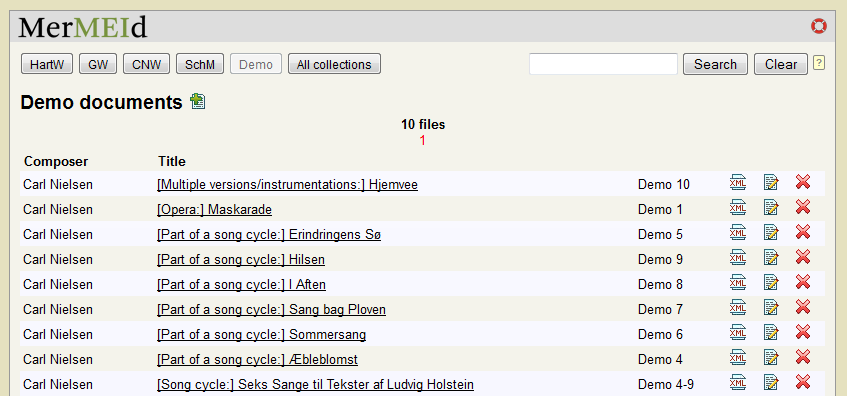
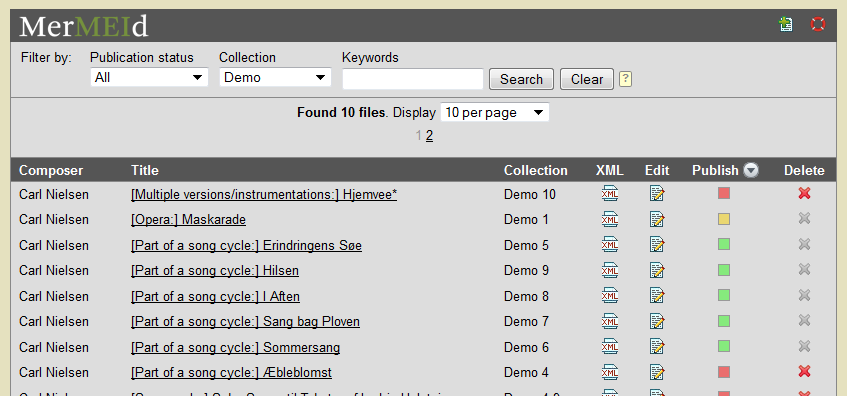
updated the manual (publishing added)
git-svn-id: svn+ssh://code-01.kb.dk/home/svn/repos/xml-store-v2@547 3c7ca1a1-f336-440e-b0c8-27b7de15a481

diff --git a/trunk/mermeid/manual/basics.html b/trunk/mermeid/manual/basics.html
@@ -1,169 +1,184 @@
 <!DOCTYPE HTML PUBLIC "-//W3C//DTD HTML 4.01 Transitional//EN">
-<html xmlns="http://www.w3.org/1999/xhtml"><head>
-<meta http-equiv="content-type" content="text/html; charset=iso-8859-1"><title>MerMEId manual</title>
-
-<link href="../style/tab_style.css" rel="stylesheet" type="text/css">
-<link href="../style/list_style.css" rel="stylesheet" type="text/css">
-<link href="../style/front_page.css" rel="stylesheet" type="text/css">
-<link href="../style/manual.css" rel="stylesheet" type="text/css">
-</head>
-
+<html xmlns="http://www.w3.org/1999/xhtml">
+  <head>
+    <meta http-equiv="content-type" content="text/html; charset=iso-8859-1"/><title>MerMEId manual</title>
+    
+    <link href="../style/tab_style.css" rel="stylesheet" type="text/css"/>
+    <link href="../style/list_style.css" rel="stylesheet" type="text/css"/>
+    <link href="../style/front_page.css" rel="stylesheet" type="text/css"/>
+    <link href="../style/manual.css" rel="stylesheet" type="text/css"/>
+  </head>
+  
   <body>
-<div class="main">
-<div class="manual_header">
-<div class="close_div"> <a href="javascript:window.close();" class="trigger"><img alt="Close" title="Close" src="../images/close.gif" height="12" width="12"></a></div>
-  <img alt="MerMEId" src="../images/mermeid_30px_inv.png" height="23" width="130"> </div>
-<div class="toclink"><a href="index.html">Back
-to table of contents</a></div>
-<h2><a name="basics" id="basics">MerMEId
-basics</a></h2>
-<p>MerMEId (Metadata Editor and Repository for MEI data) is a
-tool for editing, (pre-)viewing and handling of music metadata based on
-<a href="http://www.music-encoding.org" target="_blank" title="Music Encoding Initiative">MEI</a>. </p>
-<p>It consists of three main components: the MEI file browser,
-the metadata editing tool, and the HTML preview. </p>
-<h3><a name="File" id="File">File list</a></h3>
-<p>The usual way to start working with MerMEId would be to open
-the file list, usually located at http://[your hostname
-here]/storage/list_files.xq (<a href="/storage/list_files.xq" target="_blank">here</a>). You should then see a list
-of existing files in your collection (if any):</p>
-<p><img alt="" src="../images/manual/list_files.png" class="illustration" border="0"></p>
-<div> <map name="map" id="map" class="manual"><area shape="rect" coords="10,57,303,91" alt="Collection buttons" title="Collection buttons" href="javascript:void(0);" id="collButtons"><area shape="rect" coords="163,166 807,207" alt="result pages" title="Result pages" href="javascript:void(0);"><area shape="rect" coords="164,229 429,403" alt="Click any title in the list to see the HTML preview (opens in a new browser tab)" title="Click any title in the list to see the HTML preview (opens in a new browser tab)" href="javascript:void(0);"><area shape="rect" coords="818,229 842,406" alt="View XML source" title="View XML source" href="javascript:void(0);"><area shape="rect" coords="860,229 882,406" alt="Open the file in the editor" title="Open the file in the editor" href="javascript:void(0);"><area shape="rect" coords="907,229 927,406" alt="Delete the file" title="Delete the file" href="javascript:void(0);"><area shape="rect" coords="642,44 943,84" alt="Limit number of results by entering search keywords" title="Limit number of results by entering search keywords" href="javascript:void(0);"><area shape="rect" coords="10,94 126,130" alt="Create a new file and open it in the editor" title="Create a new file and open it in the editor" href="javascript:void(0);"></map>
-</div>
-<p>Collection buttons (in this example, "HartW", "CNW", "SchM",
-"GW", and "Demo") will be visible only if you have spefcified such
-collections in your files. Clicking them will reduce the list to show
-only files belonging to that collection.</p>
-<p>You may also limit the number of files displayed using the
-"Search" field in the upper right corner. Navigate through the result
-pages using the page numbers or the "Previous page" / "Next page" links.</p>
-<p>From the list, you have the following options:</p>
-<ul>
-<li><strong>Add new file</strong>: Clicking the add
-new file button <img alt="New file" src="../images/new.gif" height="16" width="16"> will open a new file in the
-metadata editor</li>
-<li><strong>HTML preview</strong>:<strong></strong>
-Click the title of any file to see its metadata displayed as formatted
-HTML.</li>
-<li><strong>XML source</strong>: Click the XML view
-icon <img alt="XML" src="../images/xml.gif" height="16" width="16"> to see file's the plain XML
-data</li>
-<li><strong>Edit file</strong>: Click the edit icon
-<img alt="Edit" src="../images/edit.gif" height="16" width="16"> to open the file in the
-metadata editor</li>
-<li><strong>Delete file</strong>: Clicking the
-delete icon <img alt="Delete" src="../images/delete.gif" height="16" width="16"> will display a warning that
-you are about to delete the selected file. Click "OK" to delete,
-otherwise "Cancel". </li>
-</ul>
-<h3><a name="editor" id="editor">The editor &#8211;
-general functionality and navigation</a></h3>
-<p>The editor (i.e. the forms for editing your data) is divided
-into a number of separate forms. You navigate through the main parts of
-it by clicking the tabs at the top of the page:</p>
-<p><img alt="Tabs" src="../images/manual/tabs.png"></p>
-<ul class="important">
-<li>Make sure to save any changes you have made before
-switching tabs.&nbsp;A warning occurs if you are about to change
-tab without having saved changes.</li>
-</ul>
-<p>Some general functions are found in the upper right corner of
-the form:</p>
-<table border="0">
-<col> <col> <tbody>
-<tr>
-<td><img alt="Save" src="../images/save.gif" height="16" width="16"></td>
-<td>Save file</td>
-</tr>
-<tr>
-<td><img alt="HTML" src="../images/html.gif" height="16" width="16"></td>
-<td>HTML preview</td>
-</tr>
-<tr>
-<td><img alt="XML" src="../images/xml.gif"></td>
-<td>XML source view</td>
-</tr>
-<tr>
-<td><img alt="Home" src="../images/home.gif" height="16" width="16"></td>
-<td>Close the editor end return to file list</td>
-</tr>
-<tr>
-<td><img alt="Settings" src="../images/settings.png" height="16" width="16"></td>
-<td>Settings</td>
-</tr>
-<tr>
-<td><img alt="Help" src="../images/help.png" height="16" width="16"></td>
-<td>Open this manual</td>
-</tr>
-</tbody>
-</table>
-<p>Next to repeatable fields you will find a number of icons for
-adding, deleting and re-arranging items:</p>
-<table border="0">
-<col> <col> <tbody>
-<tr>
-<td><img alt="Up" src="../images/arrow_up.gif" height="12" width="12"></td>
-<td>Move up (change order of items)</td>
-</tr>
-<tr>
-<td><img alt="Down" src="../images/arrow_down.gif" height="12" width="12"></td>
-<td>Move down</td>
-</tr>
-<tr>
-<td><img alt="Copy" src="../images/copy.gif" height="12" width="12"></td>
-<td>Duplicate item (adds a copy of the current item)</td>
-</tr>
-<tr>
-<td><img alt="Add" src="../images/add.gif" height="12" width="12"></td>
-<td>Add new item below the current one</td>
-</tr>
-<tr>
-<td><img alt="Delete" src="../images/remove.gif" height="12" width="12"></td>
-<td>Delete</td>
-</tr>
-<tr>
-<td><img alt="Right arrow" src="../images/arrow_right.png" height="12" width="12">
-</td>
-<td>Shift this item to the right, making it a sub-component
-(child) of the item above (applies to music components only) </td>
-</tr>
-<tr>
-<td><img alt="Left arrow" src="../images/arrow_left.png" height="12" width="12">
-</td>
-<td>Shift this item to the left, i.e. up one level (applies
-to music components only) </td>
-</tr>
-<tr>
-<td><img style="width: 16px; height: 16px;" alt="Edit" src="../images/edit.gif">
-</td>
-<td>Edit this item&nbsp;(opens a details editor) </td>
-</tr>
-<tr>
-<td><img style="width: 15px; height: 15px;" alt="Go to link" src="../images/go_to_link.png">
-</td>
-<td>Go to a linked resource (implies closing the current file and opening a different one for editing) </td>
-</tr>
-</tbody>
-</table>
-<h3><a name="HTML" id="HTML">HTML Preview</a></h3>
-<p>The purpose of the HTML preview is to give you an overview of
-the data you have entered. Your project may or may not use it as a
-basis for public display of your data as well, but probably this is not
-how your data will be displayed in the end. </p>
-<p><img alt="HTML preview" src="../images/manual/html_view.png" class="illustration"></p>
-<p>If titles or other texts are given in more than one language,
-all other alternatives than the first one are shown in grey with an
-abbreviated indication of the language at the beginning. To hide these
-alternative language texts, click the "Hide alternative languages" link
-in the upper right corner.</p>
-<p>By default, only the headings of the main sections are shown.
-To view the contents, click the the expand icon <img alt="expand" src="../images/plus.png" height="10" width="10">
-or the heading. To hide the contents, click the heading again. The
-number of headings shown depends on which sections have any content.</p>
-<p>At the bottom of the page, in grey, metadata about the file
-are displayed (i.e. the colophon).</p>
-</div>
-<p class="footer"><a href="http://www.kb.dk/dcm" title="DCM"><img style="border: 0px none ; vertical-align: middle;" alt="DCM Logo" src="../images/dcm_logo_small.png"></a>
-2013 Danish Centre for Music Publication | The Royal Library,
-Copenhagen | <a name="www.kb.dk" id="www.kb.dk" href="http://www.kb.dk/dcm">www.kb.dk/dcm</a></p>
-</body></html>
+    <div class="main">
+      <div class="manual_header">
+        <div class="close_div"> <a href="javascript:window.close();" class="trigger"><img alt="Close" title="Close" src="../images/close.gif" height="12" width="12"/></a></div>
+        <img alt="MerMEId" src="../images/mermeid_30px_inv.png" height="23" width="130"/> </div>
+      <div class="toclink"><a href="index.html">Back
+        to table of contents</a></div>
+      <h2><a name="basics" id="basics">MerMEId
+        basics</a></h2>
+      <p>MerMEId (Metadata Editor and Repository for MEI data) is a
+        tool for editing, (pre-)viewing and handling of music metadata based on
+        <a href="http://www.music-encoding.org" target="_blank" title="Music Encoding Initiative">MEI</a>. </p>
+      <p>It consists of three main components: the MEI file browser,
+        the metadata editing tool, and the HTML preview. </p>
+      <h3><a name="File" id="File">File list</a></h3>
+      <p>The usual way to start working with MerMEId would be to open
+        the file list, usually located at http://[your hostname
+        here]/storage/list_files.xq (<a href="/storage/list_files.xq" target="_blank">here</a>). You should then see a list
+        of existing files in your collection (if any):</p>
+      <p><img alt="" src="../images/manual/list_files.png" class="illustration" border="0"/></p>
+      <p><strong>Creating a new file: </strong>To create a new file, click the add
+        button <img alt="New file" src="../images/new.gif" height="16" width="16"/> located in the upper right corner.  
+        This will open a new file in the metadata editor.</p>
+      <p><strong>Listing existing files: </strong>Near the top of the files list page, 
+        a number of controls allow you to you choose which files to list.
+        Use the first select box if you want to see only unpublished files. 
+        The second select box lets you filter files by collection, 
+        provided you have specified file collection information in your files. 
+        You may also narrow the results using the keywords search.</p> 
+      <p>Navigate through the result
+        pages using the page numbers or the "Previous page" / "Next page" links.</p>
+      <p>From the list, you have the following options:</p>
+      <ul>
+        <li><strong>HTML preview</strong>:<strong></strong>
+          Click the title of any file to see its metadata displayed as formatted
+          HTML.</li>
+        <li><strong>XML source</strong>: Click the XML view
+          icon <img alt="XML" src="../images/xml.gif" height="16" width="16"/> to see file's the plain XML
+          data</li>
+        <li><strong>Edit file</strong>: Click the edit icon
+          <img alt="Edit" src="../images/edit.gif" height="16" width="16"/> to open the file in the
+          metadata editor</li>
+        <li><strong>Publish file(s)</strong>: The color of the checkboxes indicates whether the file is 
+          published and up to date (<img alt="Green" style="vertical-align:bottom;" title="published" 
+            src="../images/checkbox_green.png" height="16" width="16"/>),
+          has been modified since its publication (<img alt="Yellow" style="vertical-align:bottom;" title="modified" 
+            src="../images/checkbox_yellow.png" height="16" width="16"/>),
+          or unpublished (<img alt="Red" style="vertical-align:bottom;" title="unpublished" 
+            src="../images/checkbox_red.png" height="16" width="16"/>).<br/>
+          To publish or unpublish files, check the appropriate checkboxes and select the desired action from the 
+          publish menu activated by moving the cursor over the publish menu button
+          <img alt="Menu" src="../images/menu.png" height="16" width="16"/>.<br/>
+          "Publishing" in this context simply means that MerMEId copies your file to a separate folder in your eXist database named "public".
+            How files placed in the public folder are further processed or made available to others is outside the scope
+            of MerMEId and entirely depends on what your system is set up to do with them.
+        </li>
+        
+        <li><strong>Delete file</strong>: Clicking the
+          delete icon <img alt="Delete" src="../images/delete.gif" height="16" width="16"/> will display a warning that
+          you are about to delete the selected file. Click "OK" to delete,
+          otherwise "Cancel". </li>
+      </ul>
+      <h3><a name="editor" id="editor">The editor &#8211;
+        general functionality and navigation</a></h3>
+      <p>The editor (i.e. the forms for editing your data) is divided
+        into a number of separate forms. You navigate through the main parts of
+        it by clicking the tabs at the top of the page:</p>
+      <p><img alt="Tabs" src="../images/manual/tabs.png"/></p>
+      <ul class="important">
+        <li>Make sure to save any changes you have made before
+          switching tabs.&nbsp;A warning occurs if you are about to change
+          tab without having saved changes.</li>
+      </ul>
+      <p>Some general functions are found in the upper right corner of
+        the form:</p>
+      <table border="0">
+        <col> <col> <tbody>
+          <tr>
+            <td><img alt="Save" src="../images/save.gif" height="16" width="16"/></td>
+            <td>Save file</td>
+          </tr>
+          <tr>
+            <td><img alt="HTML" src="../images/html.gif" height="16" width="16"/></td>
+            <td>HTML preview</td>
+          </tr>
+          <tr>
+            <td><img alt="XML" src="../images/xml.gif"/></td>
+            <td>XML source view</td>
+          </tr>
+          <tr>
+            <td><img alt="Home" src="../images/home.gif" height="16" width="16"/></td>
+            <td>Close the editor end return to file list</td>
+          </tr>
+          <tr>
+            <td><img alt="Settings" src="../images/settings.png" height="16" width="16"/></td>
+            <td>Settings</td>
+          </tr>
+          <tr>
+            <td><img alt="Help" src="../images/help.png" height="16" width="16"/></td>
+            <td>Open this manual</td>
+          </tr>
+        </tbody>
+      </table>
+      <p>Next to repeatable fields you will find a number of icons for
+        adding, deleting and re-arranging items:</p>
+      <table border="0">
+        <col> <col> <tbody>
+          <tr>
+            <td><img alt="Up" src="../images/arrow_up.gif" height="12" width="12"/></td>
+            <td>Move up (change order of items)</td>
+          </tr>
+          <tr>
+            <td><img alt="Down" src="../images/arrow_down.gif" height="12" width="12"/></td>
+            <td>Move down</td>
+          </tr>
+          <tr>
+            <td><img alt="Copy" src="../images/copy.gif" height="12" width="12"/></td>
+            <td>Duplicate item (adds a copy of the current item)</td>
+          </tr>
+          <tr>
+            <td><img alt="Add" src="../images/add.gif" height="12" width="12"/></td>
+            <td>Add new item below the current one</td>
+          </tr>
+          <tr>
+            <td><img alt="Delete" src="../images/remove.gif" height="12" width="12"/></td>
+            <td>Delete</td>
+          </tr>
+          <tr>
+            <td><img alt="Right arrow" src="../images/arrow_right.png" height="12" width="12"/>
+            </td>
+            <td>Shift this item to the right, making it a sub-component
+              (child) of the item above (applies to music components only) </td>
+          </tr>
+          <tr>
+            <td><img alt="Left arrow" src="../images/arrow_left.png" height="12" width="12"/>
+            </td>
+            <td>Shift this item to the left, i.e. up one level (applies
+              to music components only) </td>
+          </tr>
+          <tr>
+            <td><img style="width: 16px; height: 16px;" alt="Edit" src="../images/edit.gif"/>
+            </td>
+            <td>Edit this item&nbsp;(opens a details editor) </td>
+          </tr>
+          <tr>
+            <td><img style="width: 15px; height: 15px;" alt="Go to link" src="../images/go_to_link.png"/>
+            </td>
+            <td>Go to a linked resource (implies closing the current file and opening a different one for editing) </td>
+          </tr>
+        </tbody>
+      </table>
+      <h3><a name="HTML" id="HTML">HTML Preview</a></h3>
+      <p>The purpose of the HTML preview is to give you an overview of
+        the data you have entered. Your project may or may not use it as a
+        basis for public display of your data as well, but probably this is not
+        how your data will be displayed in the end. </p>
+      <p><img alt="HTML preview" src="../images/manual/html_view.png" class="illustration"/></p>
+      <p>If titles or other texts are given in more than one language,
+        all other alternatives than the first one are shown in grey with an
+        abbreviated indication of the language at the beginning. To hide these
+        alternative language texts, click the "Hide alternative languages" link
+        in the upper right corner.</p>
+      <p>By default, only the headings of the main sections are shown.
+        To view the contents, click the the expand icon <img alt="expand" src="../images/plus.png" height="10" width="10"/>
+        or the heading. To hide the contents, click the heading again. The
+        number of headings shown depends on which sections have any content.</p>
+      <p>At the bottom of the page, in grey, metadata about the file
+        are displayed (i.e. the colophon).</p>
+    </div>
+    <p class="footer"><a href="http://www.kb.dk/dcm" title="DCM"><img style="border: 0px none ; vertical-align: middle;" alt="DCM Logo" src="../images/dcm_logo_small.png"/></a>
+      2013 Danish Centre for Music Publication | The Royal Library,
+      Copenhagen | <a name="www.kb.dk" id="www.kb.dk" href="http://www.kb.dk/dcm">www.kb.dk/dcm</a></p>
+  </body></html>
